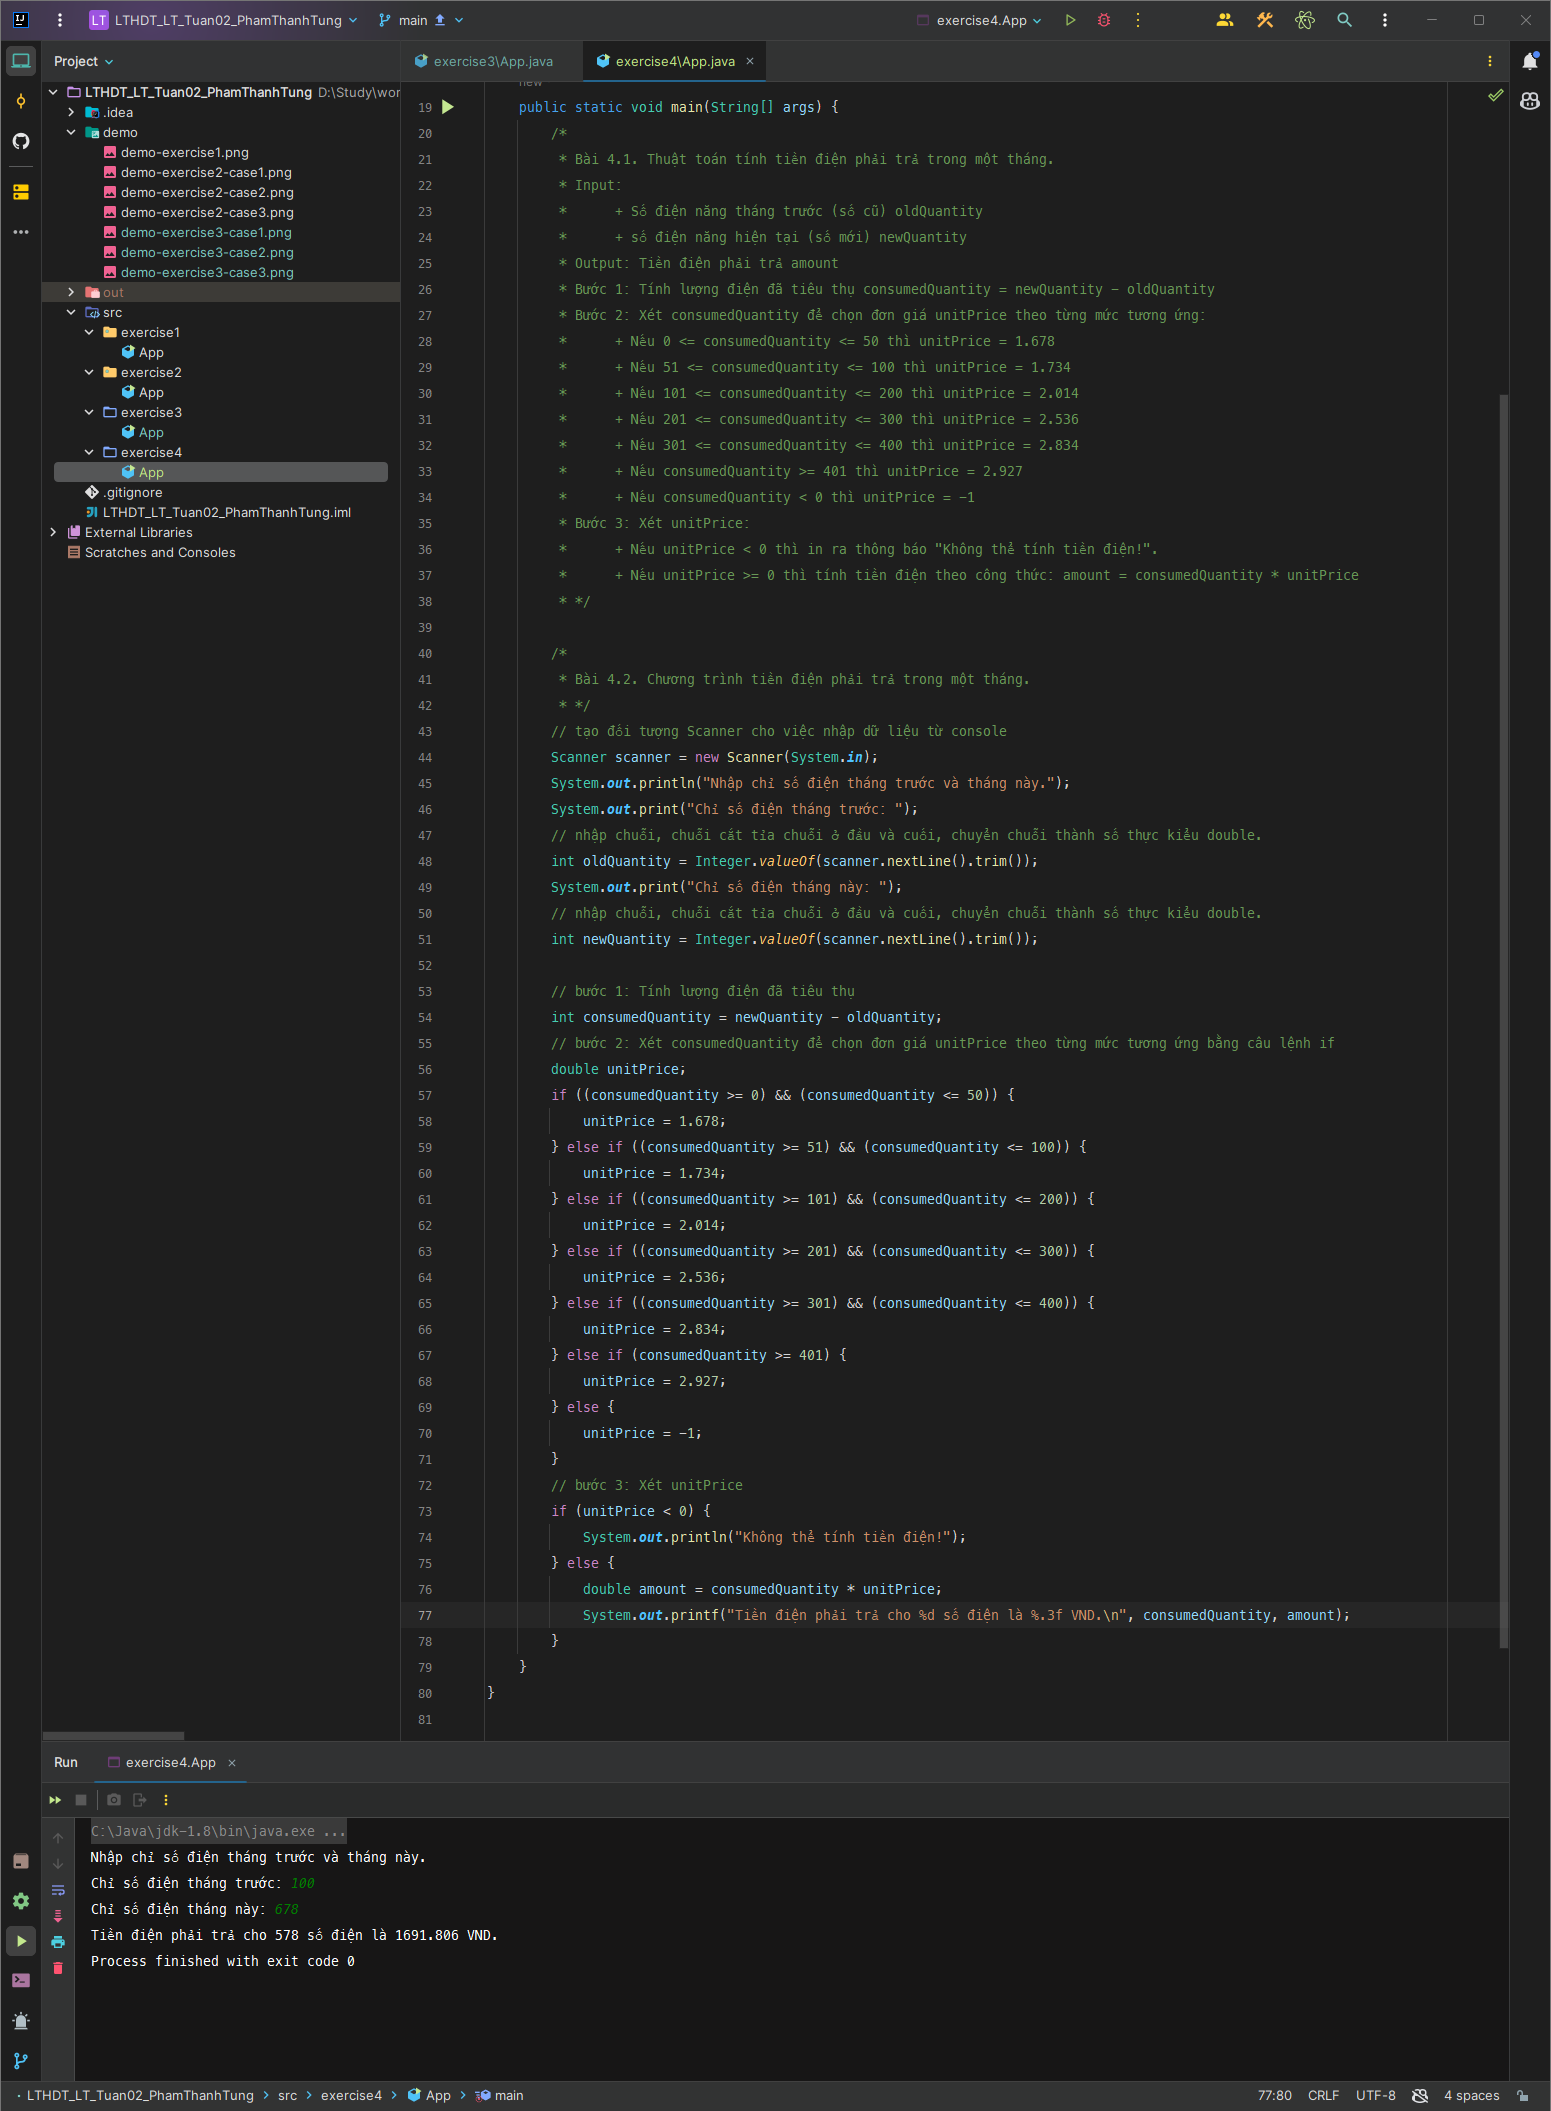
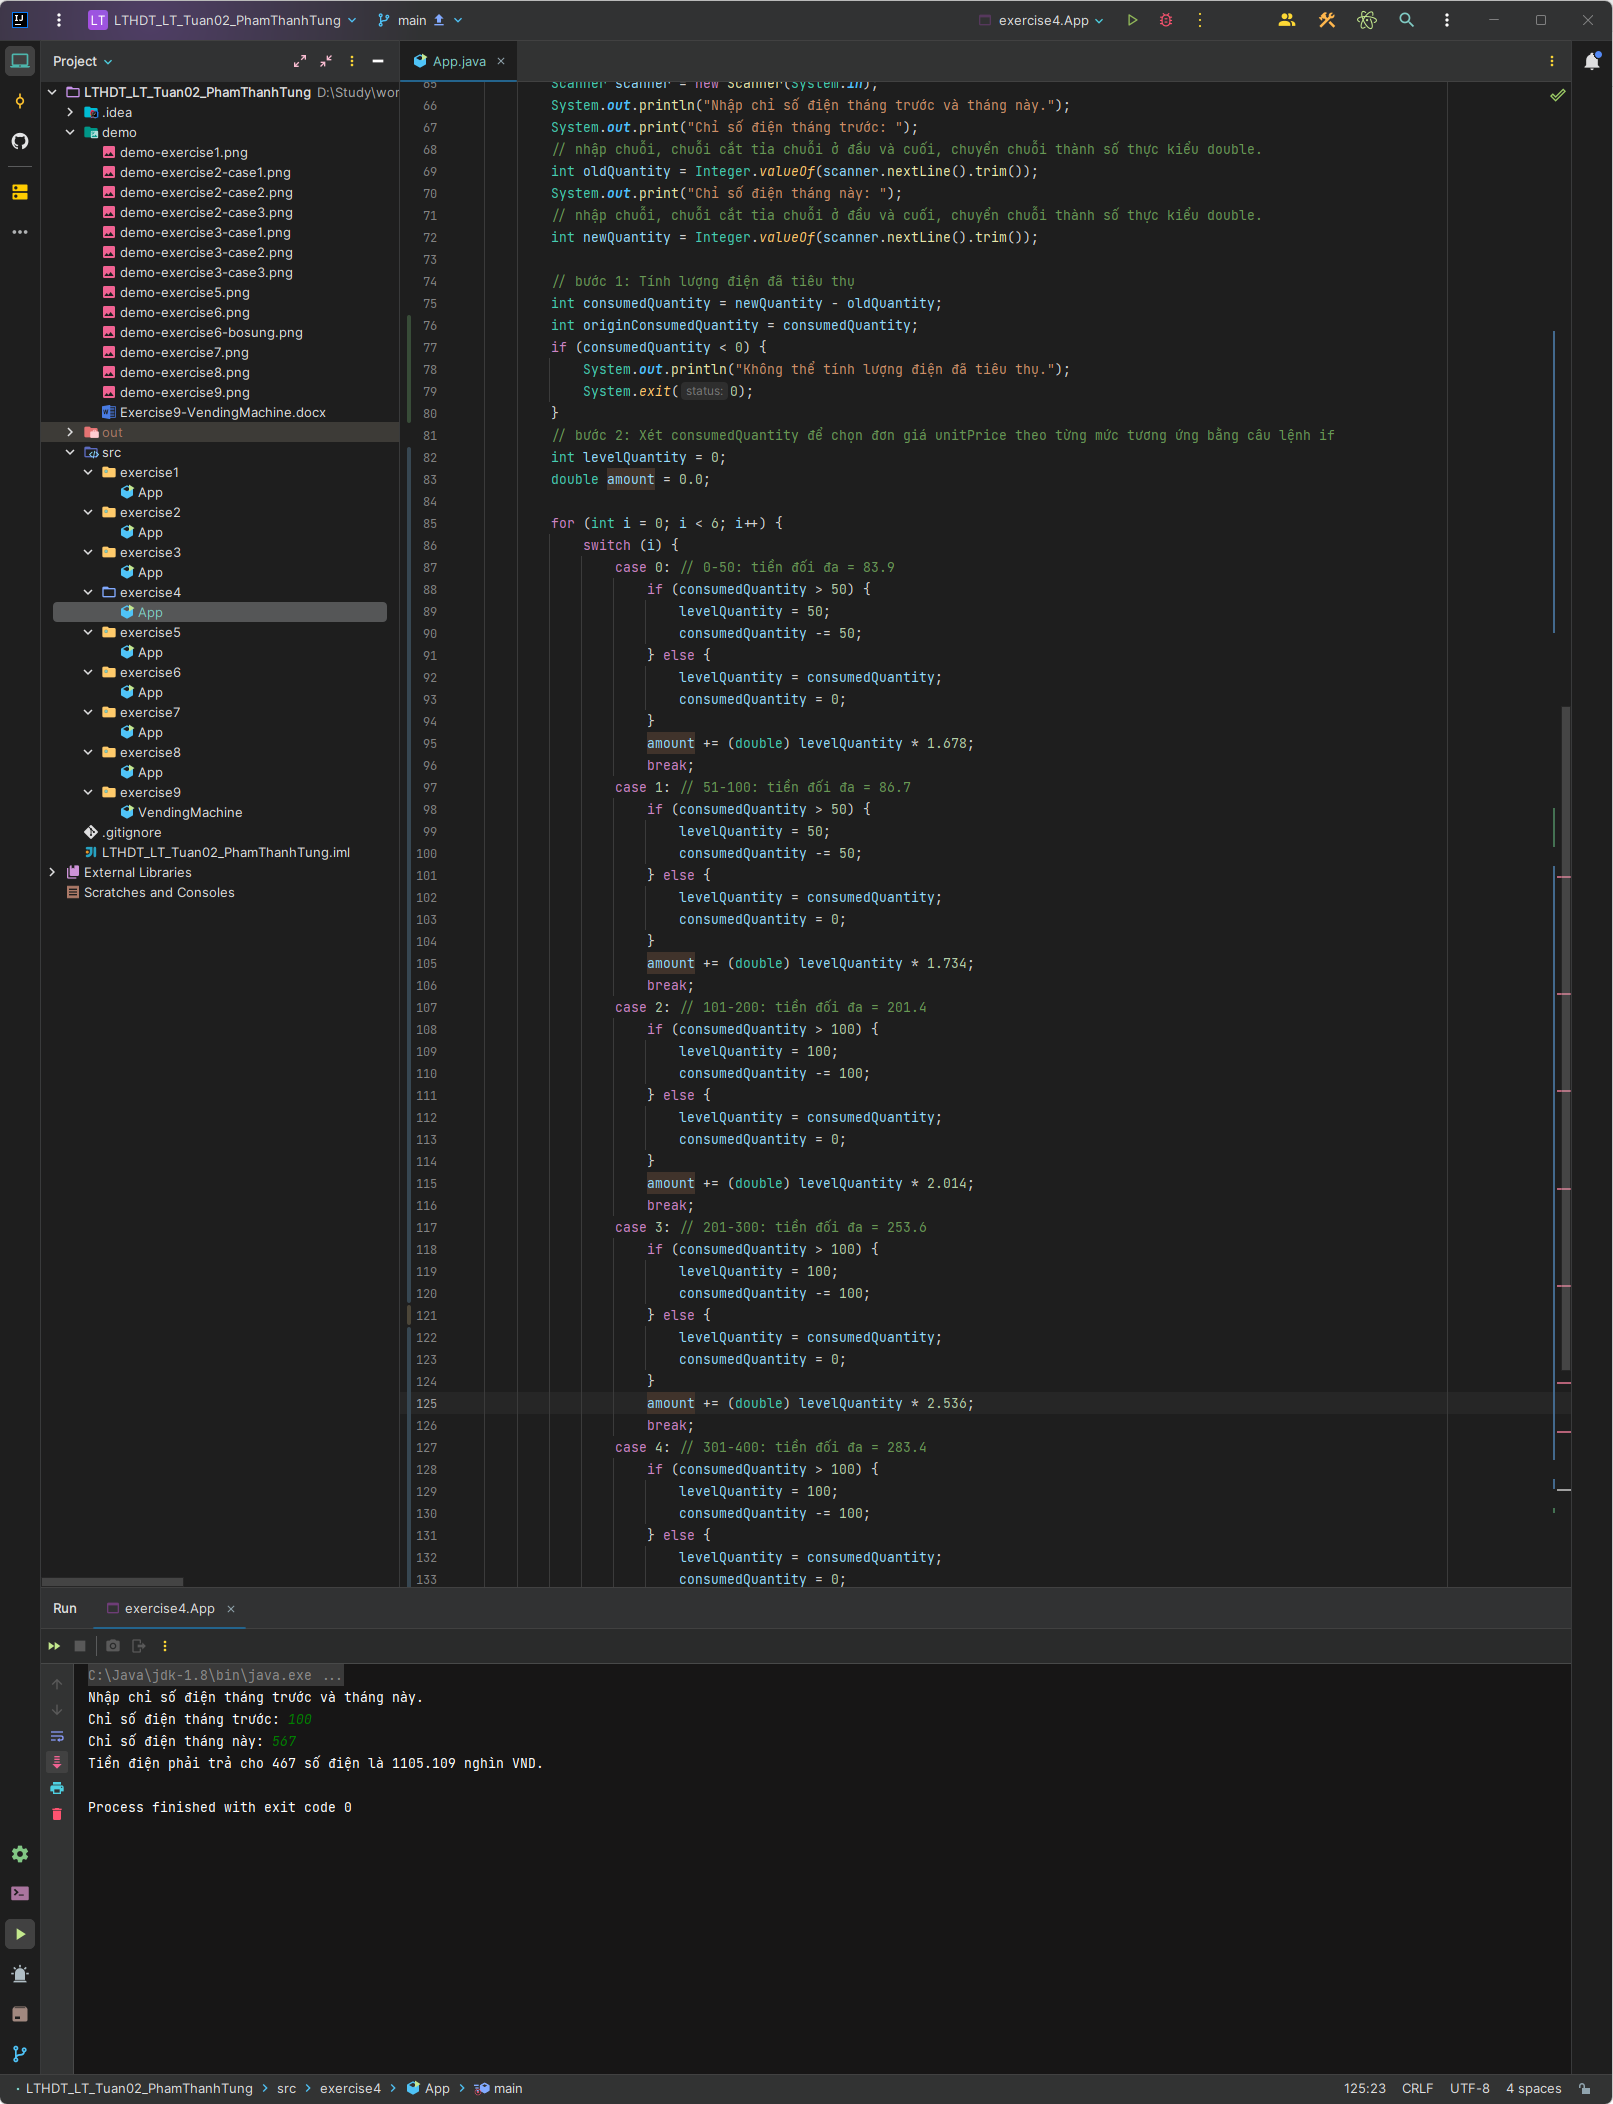
LTHDT-LT-Tuan02. Hoan thanh Bai 4. Bo sung.

diff --git a/LTHDT_LT_Tuan02_PhamThanhTung/src/exercise4/App.java b/LTHDT_LT_Tuan02_PhamThanhTung/src/exercise4/App.java
@@ -24,17 +24,38 @@ public class App {
          *      + số điện năng hiện tại (số mới) newQuantity
          * Output: Tiền điện phải trả amount
          * Bước 1: Tính lượng điện đã tiêu thụ consumedQuantity = newQuantity - oldQuantity
-         * Bước 2: Xét consumedQuantity để chọn đơn giá unitPrice theo từng mức tương ứng:
-         *      + Nếu 0 <= consumedQuantity <= 50 thì unitPrice = 1.678
-         *      + Nếu 51 <= consumedQuantity <= 100 thì unitPrice = 1.734
-         *      + Nếu 101 <= consumedQuantity <= 200 thì unitPrice = 2.014
-         *      + Nếu 201 <= consumedQuantity <= 300 thì unitPrice = 2.536
-         *      + Nếu 301 <= consumedQuantity <= 400 thì unitPrice = 2.834
-         *      + Nếu consumedQuantity >= 401 thì unitPrice = 2.927
-         *      + Nếu consumedQuantity < 0 thì unitPrice = -1
-         * Bước 3: Xét unitPrice:
-         *      + Nếu unitPrice < 0 thì in ra thông báo "Không thể tính tiền điện!".
-         *      + Nếu unitPrice >= 0 thì tính tiền điện theo công thức: amount = consumedQuantity * unitPrice
+         * Bước 2: Khi consumedQuantity < 0 thì chương trình dừng
+         * Bước 3: Khi consumedQuantity >= 0, gán amount := 0.0, gán biến số lượng điện theo bậc levelQuantity := 0
+         * Bước 4: Gán i := 0
+         * Bước 5: Xét điều kiện i < 6:
+         *      + Nếu điều kiện đúng thì đến Bước 6
+         *      + Nếu điều kiện sai thì đến Bước 8
+         * Bước 6: Xét từng chì số i tương ứng với từng bậc lượng điện tiêu thụ
+         *      + Khi i = 0 (bậc 1):
+         *          Nếu consumedQuantity > 50 thì gán levelQuantity := 50 và giảm consumedQuantity đi 50,
+         *              ngược lại thì gán levelQuantity := consumedQuantity và consumedQuantity := 0.
+         *          amount := amount + levelQuantity * 1.678
+         *      + Khi i = 1 (bậc 2):
+         *          Nếu consumedQuantity > 50 thì gán levelQuantity := 50 và giảm consumedQuantity đi 50,
+         *              ngược lại thì gán levelQuantity := consumedQuantity và consumedQuantity := 0.
+         *          amount := amount + levelQuantity * 1.734
+         *      + Khi i = 2 (bậc 3):
+         *          Nếu consumedQuantity > 100 thì gán levelQuantity := 50 và giảm consumedQuantity đi 100,
+         *              ngược lại thì gán levelQuantity := consumedQuantity và consumedQuantity := 0.
+         *          amount := amount + levelQuantity * 2.014
+         *      + Khi i = 3 (bậc 4):
+         *          Nếu consumedQuantity > 100 thì gán levelQuantity := 50 và giảm consumedQuantity đi 100,
+         *              ngược lại thì gán levelQuantity := consumedQuantity và consumedQuantity := 0.
+         *          amount := amount + levelQuantity * 2.536
+         *      + Khi i = 4 (bậc 5):
+         *          Nếu consumedQuantity > 100 thì gán levelQuantity := 50 và giảm consumedQuantity đi 100,
+         *              ngược lại thì gán levelQuantity := consumedQuantity và consumedQuantity := 0.
+         *          amount := amount + levelQuantity * 2.834
+         *      + Khi i = 5 (bậc 6):
+         *          levelQuantity := consumedQuantity và consumedQuantity := 0.
+         *          amount := amount + levelQuantity * 2.927
+         * Bước 7: Gán i := i + 1, sau đó quay lại Bước 5
+         * Bước 8: In ra kết quả amount
          * */
 
         /*
@@ -52,29 +73,77 @@ public class App {
 
         // bước 1: Tính lượng điện đã tiêu thụ
         int consumedQuantity = newQuantity - oldQuantity;
+        int originConsumedQuantity = consumedQuantity;
+        if (consumedQuantity < 0) {
+            System.out.println("Không thể tính lượng điện đã tiêu thụ.");
+            System.exit(0);
+        }
         // bước 2: Xét consumedQuantity để chọn đơn giá unitPrice theo từng mức tương ứng bằng câu lệnh if
-        double unitPrice;
-        if ((consumedQuantity >= 0) && (consumedQuantity <= 50)) {
-            unitPrice = 1.678;
-        } else if ((consumedQuantity >= 51) && (consumedQuantity <= 100)) {
-            unitPrice = 1.734;
-        } else if ((consumedQuantity >= 101) && (consumedQuantity <= 200)) {
-            unitPrice = 2.014;
-        } else if ((consumedQuantity >= 201) && (consumedQuantity <= 300)) {
-            unitPrice = 2.536;
-        } else if ((consumedQuantity >= 301) && (consumedQuantity <= 400)) {
-            unitPrice = 2.834;
-        } else if (consumedQuantity >= 401) {
-            unitPrice = 2.927;
-        } else {
-            unitPrice = -1;
+        int levelQuantity = 0;
+        double amount = 0.0;
+
+        for (int i = 0; i < 6; i++) {
+            switch (i) {
+                case 0: // 0-50: tiền đối đa = 83.9
+                    if (consumedQuantity > 50) {
+                        levelQuantity = 50;
+                        consumedQuantity -= 50;
+                    } else {
+                        levelQuantity = consumedQuantity;
+                        consumedQuantity = 0;
+                    }
+                    amount += (double) levelQuantity * 1.678;
+                    break;
+                case 1: // 51-100: tiền đối đa = 86.7
+                    if (consumedQuantity > 50) {
+                        levelQuantity = 50;
+                        consumedQuantity -= 50;
+                    } else {
+                        levelQuantity = consumedQuantity;
+                        consumedQuantity = 0;
+                    }
+                    amount += (double) levelQuantity * 1.734;
+                    break;
+                case 2: // 101-200: tiền đối đa = 201.4
+                    if (consumedQuantity > 100) {
+                        levelQuantity = 100;
+                        consumedQuantity -= 100;
+                    } else {
+                        levelQuantity = consumedQuantity;
+                        consumedQuantity = 0;
+                    }
+                    amount += (double) levelQuantity * 2.014;
+                    break;
+                case 3: // 201-300: tiền đối đa = 253.6
+                    if (consumedQuantity > 100) {
+                        levelQuantity = 100;
+                        consumedQuantity -= 100;
+                    } else {
+                        levelQuantity = consumedQuantity;
+                        consumedQuantity = 0;
+                    }
+                    amount += (double) levelQuantity * 2.536;
+                    break;
+                case 4: // 301-400: tiền đối đa = 283.4
+                    if (consumedQuantity > 100) {
+                        levelQuantity = 100;
+                        consumedQuantity -= 100;
+                    } else {
+                        levelQuantity = consumedQuantity;
+                        consumedQuantity = 0;
+                    }
+                    amount += (double) levelQuantity * 2.834;
+                    break;
+                case 5: // 401+
+                    levelQuantity = consumedQuantity;
+                    consumedQuantity = 0;
+                    amount += (double) levelQuantity * 2.927;
+                    break;
+                default: break;
+            }
         }
-        // bước 3: Xét unitPrice
-        if (unitPrice < 0) {
-            System.out.println("Không thể tính tiền điện!");
-        } else {
-            double amount = consumedQuantity * unitPrice;
-            System.out.printf("Tiền điện phải trả cho %d số điện là %.3f VND.\n", consumedQuantity, amount);
-        }
+        // bước 3
+        System.out.printf("Tiền điện phải trả cho %d số điện là %.3f nghìn VND.\n", originConsumedQuantity, amount);
     }
+
 }

diff --git a/LTHDT_LT_Tuan03_PhamThanhTung/src/exercise2/main/ElectricityConsumptionCalculator.java b/LTHDT_LT_Tuan03_PhamThanhTung/src/exercise2/main/ElectricityConsumptionCalculator.java
@@ -1,0 +1,16 @@
+/*
+ *  @ (#) ElectricityConsumptionCalculator.java      1.0 21/08/2023
+ * 
+ *  Copyright (c) 2023 IUH.
+ *  All rights reserved.
+ */
+
+package exercise2.main;
+/**
+ *  @description
+ *  @author:    tungpt
+ *  @version:   1.0
+ *  @since:     August 21, 2023
+ */
+public class ElectricityConsumptionCalculator {
+}
